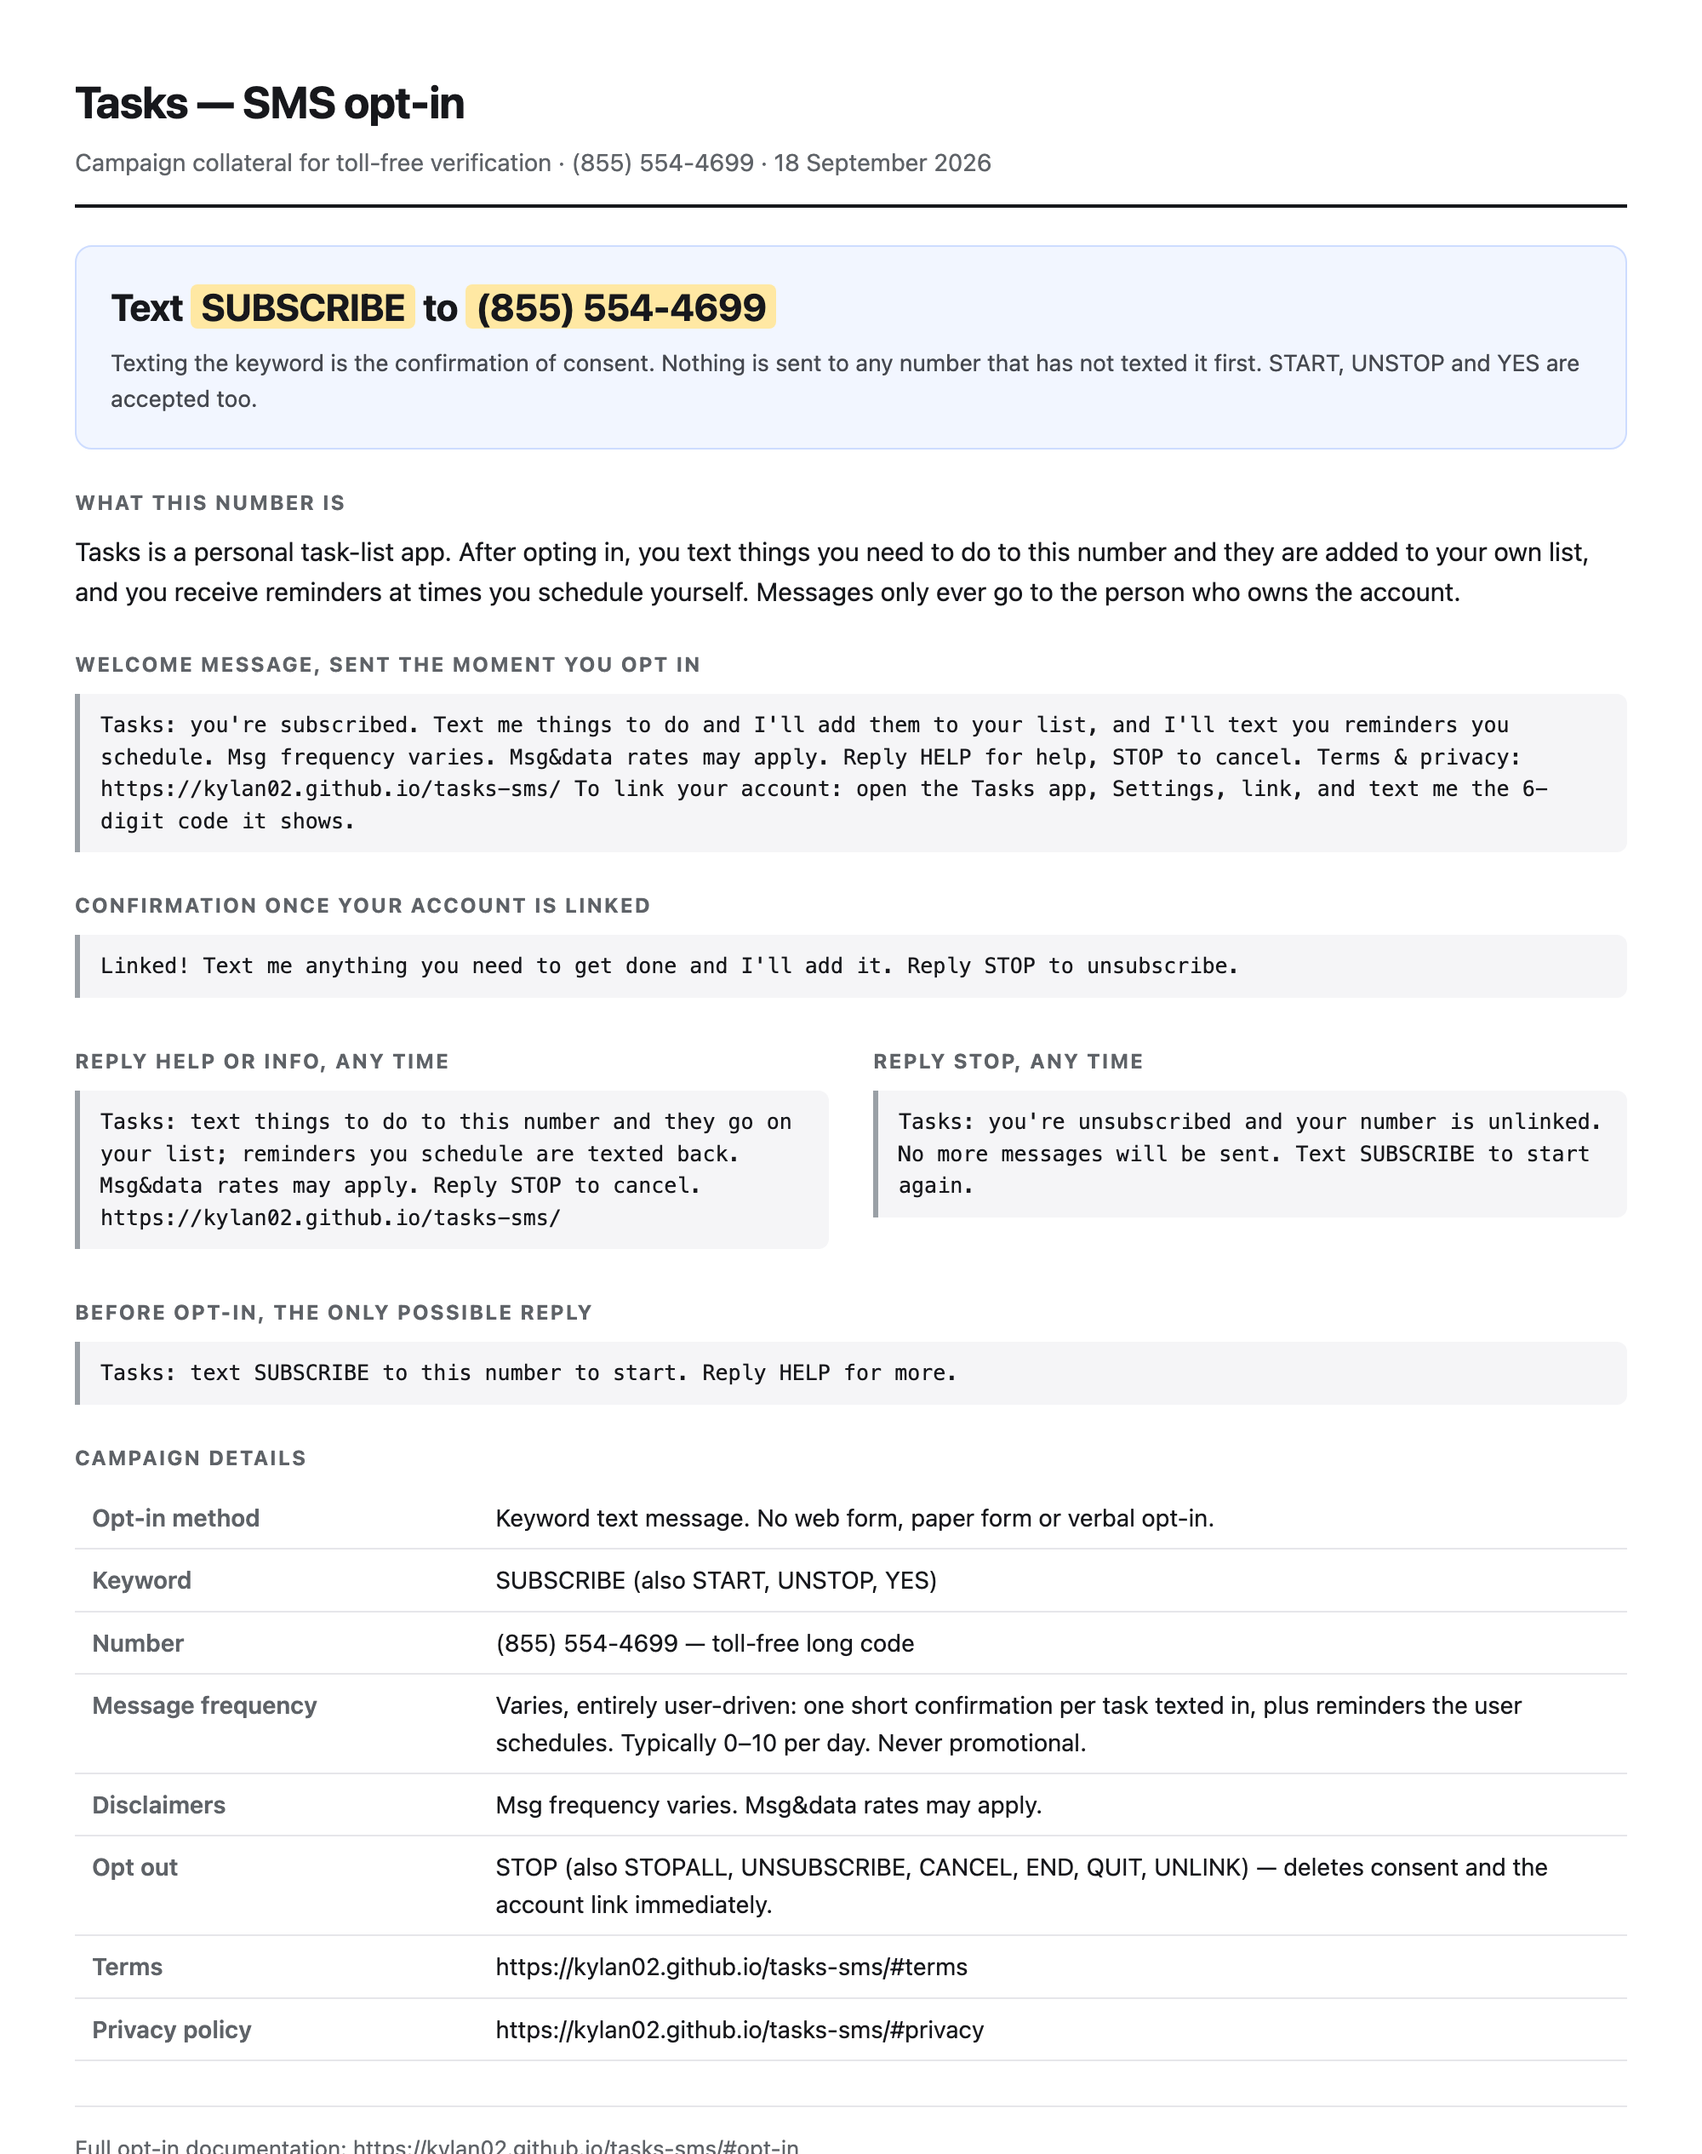
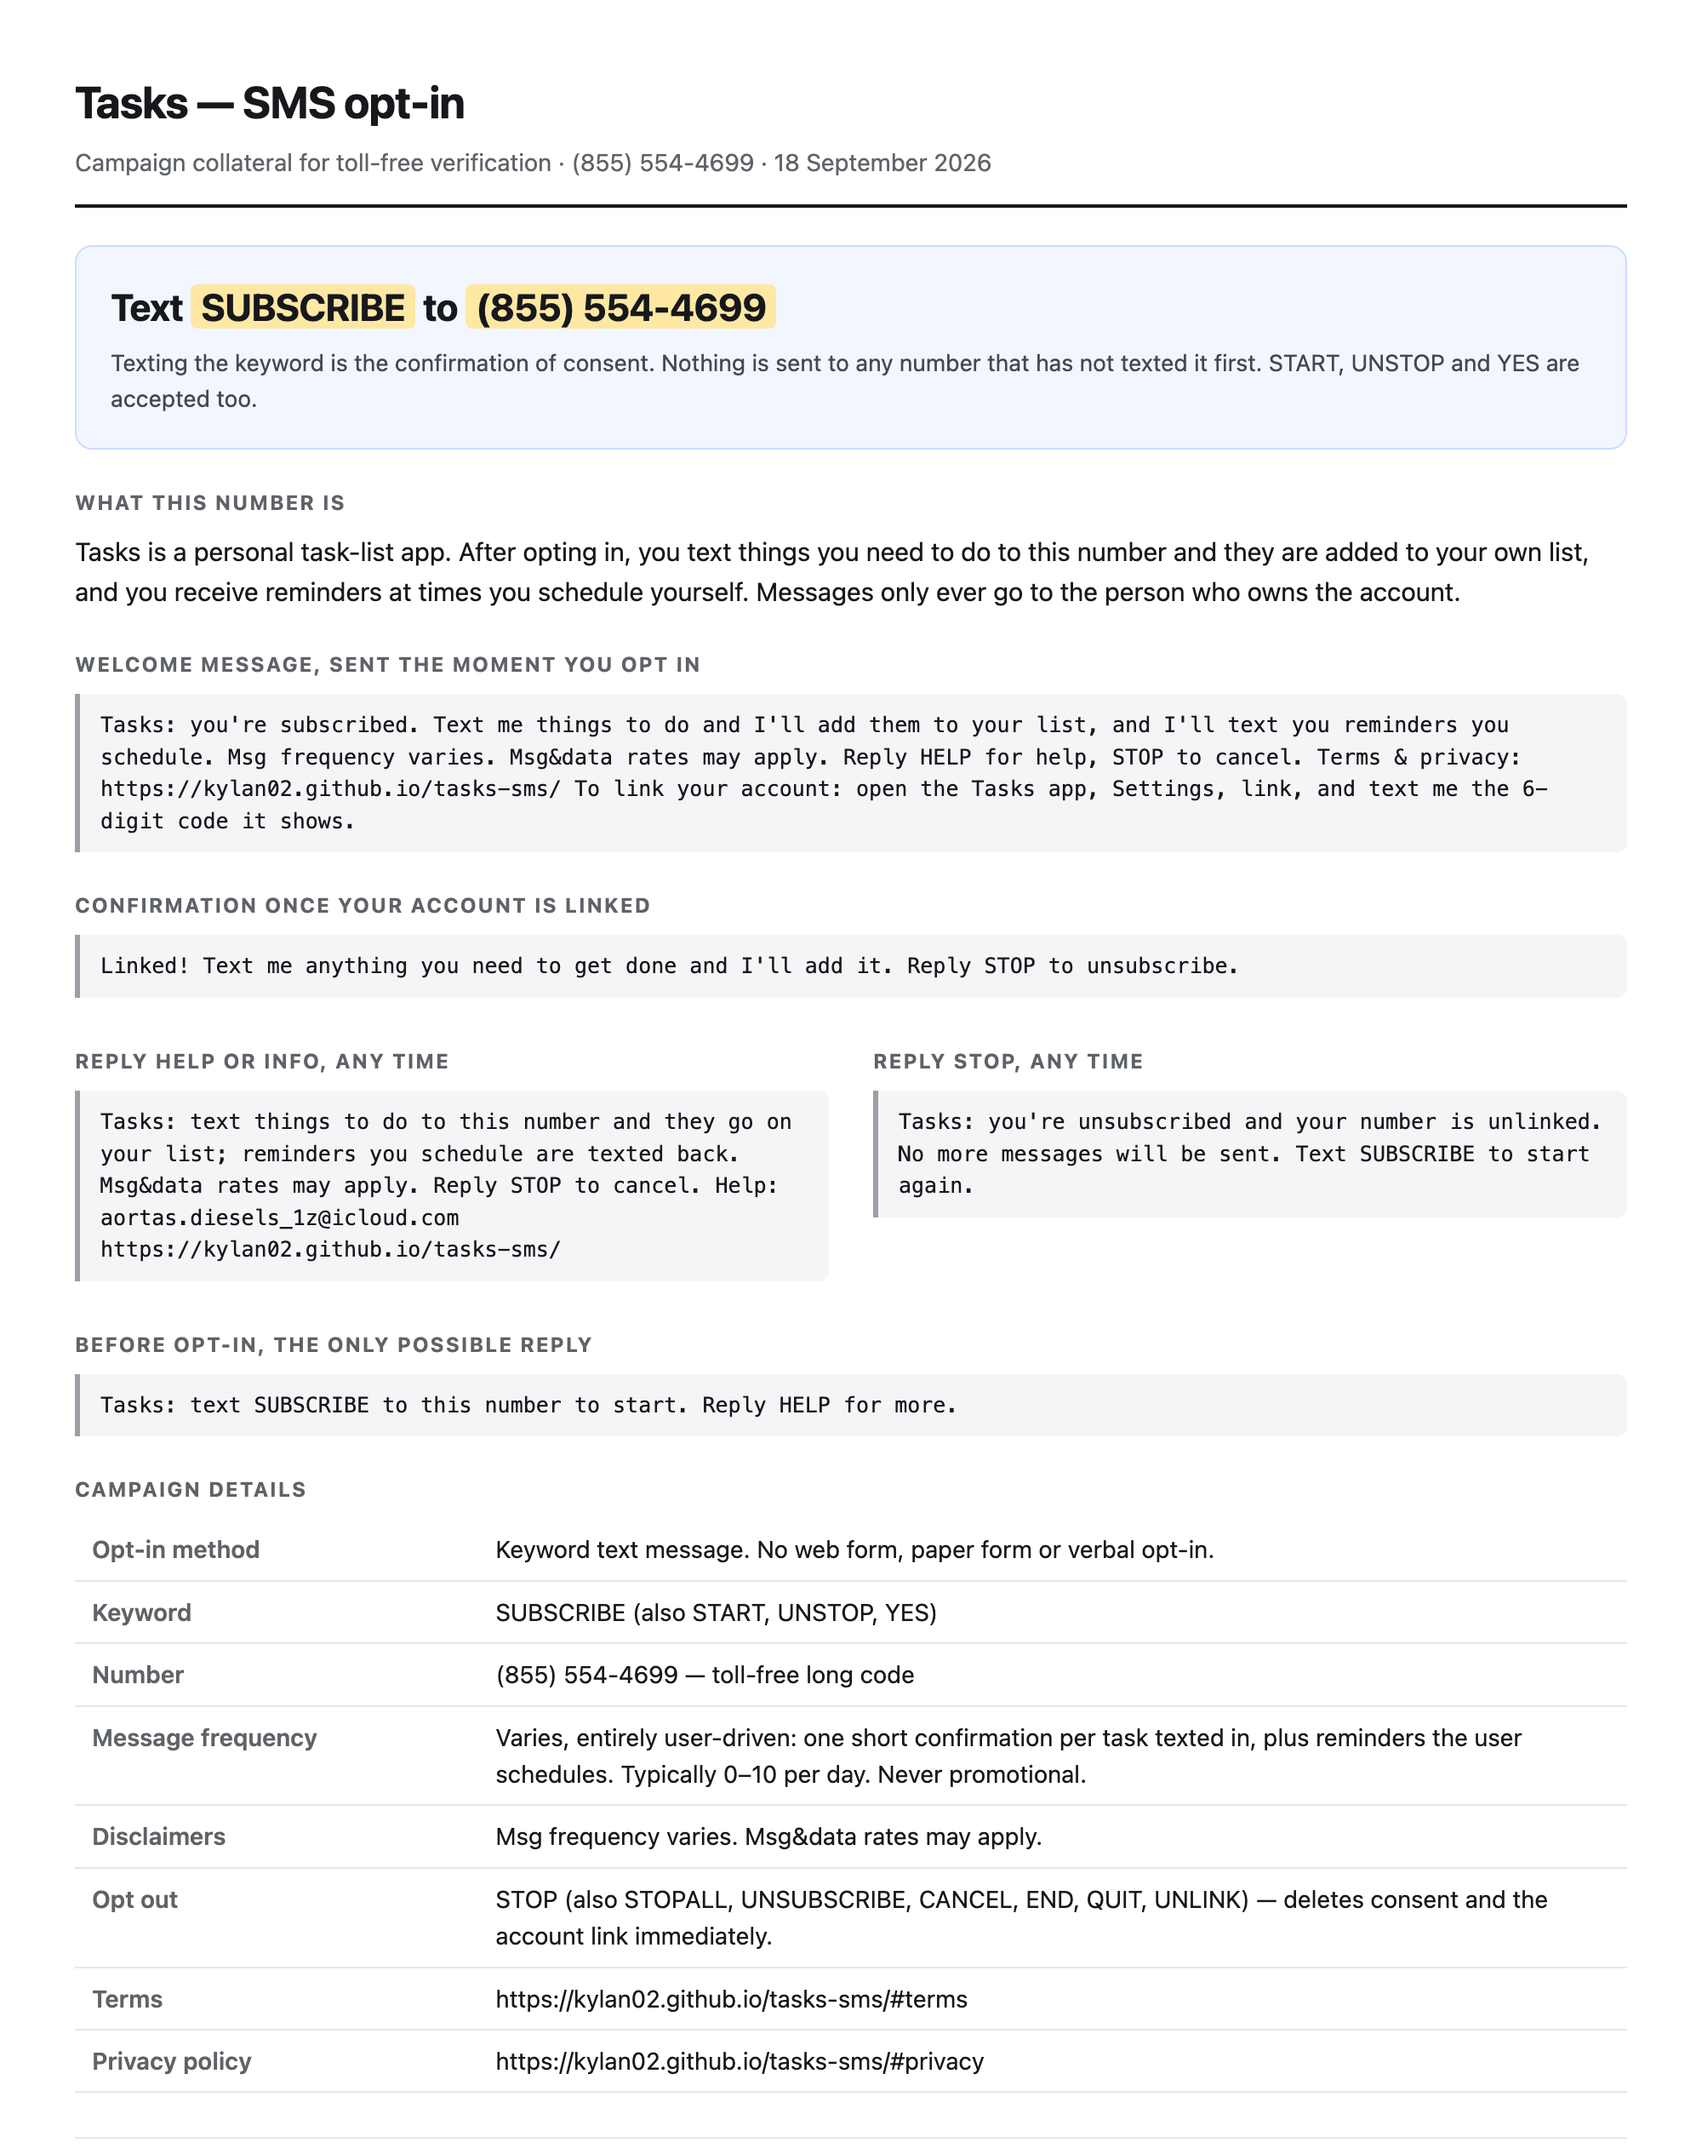
HELP message now includes a support contact

Changed region(s): [[0.031, 0.5621, 0.899, 1.0]]

diff --git a/collateral.html b/collateral.html
@@ -79,7 +79,7 @@
   <div class="cols">
     <div>
       <h2>Reply HELP or INFO, any time</h2>
-      <span class="msg">Tasks: text things to do to this number and they go on your list; reminders you schedule are texted back. Msg&amp;data rates may apply. Reply STOP to cancel. https://kylan02.github.io/tasks-sms/</span>
+      <span class="msg">Tasks: text things to do to this number and they go on your list; reminders you schedule are texted back. Msg&amp;data rates may apply. Reply STOP to cancel. Help: aortas.diesels_1z@icloud.com https://kylan02.github.io/tasks-sms/</span>
     </div>
     <div>
       <h2>Reply STOP, any time</h2>

diff --git a/index.html b/index.html
@@ -132,7 +132,7 @@
 
   <h3>Getting help — HELP</h3>
   <p>Text <strong>HELP</strong> or <strong>INFO</strong> at any time, subscribed or not:</p>
-  <span class="msg">Tasks: text things to do to this number and they go on your list; reminders you schedule are texted back. Msg&amp;data rates may apply. Reply STOP to cancel. https://kylan02.github.io/tasks-sms/</span>
+  <span class="msg">Tasks: text things to do to this number and they go on your list; reminders you schedule are texted back. Msg&amp;data rates may apply. Reply STOP to cancel. Help: aortas.diesels_1z@icloud.com https://kylan02.github.io/tasks-sms/</span>
 
   <hr>
 
